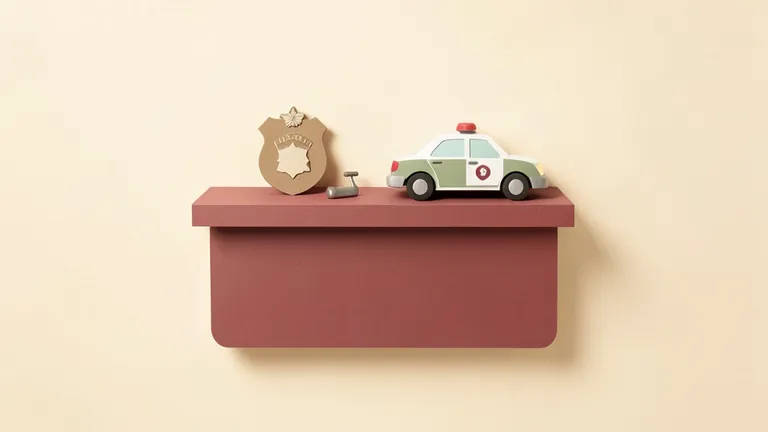
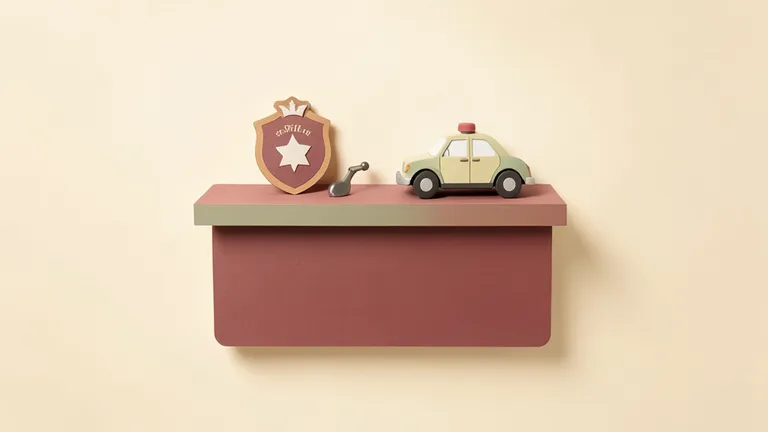
feat: add package 2 and 3 level illustrations

Changed region(s): [[0.25, 0.2106, 0.8125, 0.8426], [0.2812, 0.7824, 0.5938, 0.8125]]

diff --git a/src/lib/content/themes.ts b/src/lib/content/themes.ts
@@ -58,18 +58,18 @@ export const THEME_PROMPTS: readonly string[] = [
 
 /** English scene prompts for the 50 Package 2 level illustrations. */
 export const THEME_PROMPTS_P2: readonly string[] = [
-	'a kitchen counter with a whisk, a ladle and a grater',
+	'a kitchen counter with a whisk, a ladle and a grater standing side by side',
 	'a cozy living room with a sofa, a cushion and a rug',
 	'a bedroom corner with a folded sheet, a patchwork quilt and an open drawer',
 	'a bathroom shelf with a comb, a towel and a round mirror',
 	'a laundry corner with a wicker basket, a hanger and an iron',
-	'a garage workbench with a toolbox, a hammer and a nail',
+	'a garage workbench with a toolbox, a hammer and a single nail, all visible',
 	'a garden shed with a trowel, a rake and a shovel',
-	'a playground with a swing, a slide and a seesaw',
+	'a playground with a swing, a slide and a seesaw in a row',
 	'a library corner with tall shelves, a stack of books and a bookcase',
 	'a moving day with stacked cartons, a packed box and a small van',
 	'a fire station with a fire engine, a coiled hose and a helmet',
-	'a police station desk with a badge, a whistle and a patrol car',
+	'a police station desk with a badge, a whistle and a small patrol car, all visible',
 	'a friendly hospital room with a nurse, an x-ray screen and a syringe',
 	'a museum hall with a statue, a fossil and a framed painting',
 	'a cinema with a big screen, a box of popcorn and a ticket',
@@ -77,7 +77,7 @@ export const THEME_PROMPTS_P2: readonly string[] = [
 	'a restaurant table with a menu, a plate and a waiter',
 	'a supermarket aisle with a trolley, stocked shelves and a cashier',
 	'a post office counter with a stamp, a parcel and a letter',
-	'an airport with luggage, a boarding gate and a runway',
+	'an airport with a suitcase, a boarding gate and a runway, all visible',
 	'a desk with a computer screen, a mouse and a keyboard',
 	'a phone on a table with a camera lens, a speaker and a charger',
 	'a television with a remote, a channel dial and an antenna',
@@ -93,15 +93,15 @@ export const THEME_PROMPTS_P2: readonly string[] = [
 	'a savanna with a zebra, a giraffe and an acacia tree',
 	'a polar scene with a penguin, an iceberg and a seal',
 	'a coral reef with coral, a reef arch and a sea anemone',
-	'a cave with bats, a rock wall and a dim entrance',
+	'a cave entrance with three bats, a rock wall and a dark opening',
 	'a volcano with lava, a crater and glowing magma',
 	'an island with palm trees, a beach and a lagoon',
 	'a waterfall with a river, a cliff and misty spray',
 	'a rainforest with a jaguar, a toucan and an orchid',
-	'a friendly dragon with folded wings, shiny scales and a small flame',
+	'a friendly dragon with spread wings, shiny scales and a small flame',
 	'a gentle unicorn with a horn, a flowing mane and a hoof',
 	'a mermaid with a shimmering tail, a pearl and a seashell',
-	'a pirate ship with a treasure chest and a parrot',
+	'a pirate ship with an open treasure chest and a parrot',
 	'a castle with a tower, a gate and a moat',
 	'a young knight with armor, a sword and a shield',
 	'a princess with a crown, a gown and a castle window',

diff --git a/issues/07-package-2-assets.md b/issues/07-package-2-assets.md
@@ -7,7 +7,7 @@
 **Status:** ready-for-agent
 
 - [x] Extend the asset generators to read Package 2 and write `/art/p2/…` and `/audio/p2/…`.
-- [ ] Generate 50 level illustrations at 768×432 WebP.
+- [x] Generate 50 level illustrations at 768×432 WebP (reviewed via `python3 scripts/contact_sheet.py --package p2`).
 - [ ] Generate 750 localized word clues at 256×256 WebP.
 - [ ] Generate 750 slowed, regional word clips.
   - [x] Italian: 150 clips generated with the native `narratrice-a` voice.

diff --git a/issues/08-package-3-assets.md b/issues/08-package-3-assets.md
@@ -7,7 +7,7 @@
 **Status:** ready-for-agent
 
 - [x] Extend the asset generators for Package 3 and write `/art/p3/…` and `/audio/p3/…`.
-- [ ] Generate 50 level illustrations at 768×432 WebP.
+- [x] Generate 50 level illustrations at 768×432 WebP (reviewed via `python3 scripts/contact_sheet.py --package p3`).
 - [ ] Generate 750 localized word clues at 256×256 WebP.
 - [ ] Generate 750 slowed, regional word clips.
   - [x] Italian: 150 clips generated with the native `narratrice-a` voice.
